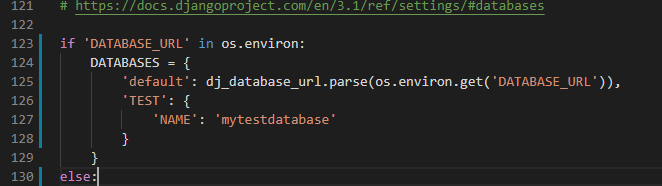
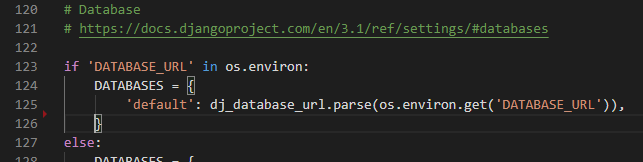
Updated review submit button & Readme.md

diff --git a/products/templates/products/rate.html b/products/templates/products/rate.html
@@ -65,7 +65,7 @@
                             <label for="exampleFormControlTextarea1" class="form-label">Review</label>
                             {{ form.text }}
                         </div>
-                        <input class="btn btn-primary" type="submit" value="Submit">
+                        <input class="btn btn-black rounded" type="submit" value="Submit">
                     </form>
                 </div>
             </div>

diff --git a/bakers_cake/settings.py b/bakers_cake/settings.py
@@ -123,9 +123,6 @@ WSGI_APPLICATION = 'bakers_cake.wsgi.application'
 if 'DATABASE_URL' in os.environ:
     DATABASES = {
         'default': dj_database_url.parse(os.environ.get('DATABASE_URL')),
-        'TEST': {
-            'NAME': 'mytestdatabase'
-        }
     }
 else:
     DATABASES = {
@@ -139,20 +136,19 @@ else:
 # Password validation
 # https://docs.djangoproject.com/en/3.1/ref/settings/#auth-password-validators
 
-val = 'django.contrib.auth.password_validation'
 
 AUTH_PASSWORD_VALIDATORS = [
     {
-        'NAME': 'val.UserAttributeSimilarityValidator',
+        'NAME': 'django.contrib.auth.password_validation.UserAttributeSimilarityValidator',
     },
     {
-        'NAME': 'val.MinimumLengthValidator',
+        'NAME': 'django.contrib.auth.password_validation.MinimumLengthValidator',
     },
     {
-        'NAME': 'val.CommonPasswordValidator',
+        'NAME': 'django.contrib.auth.password_validation.CommonPasswordValidator',
     },
     {
-        'NAME': 'val.NumericPasswordValidator',
+        'NAME': 'django.contrib.auth.password_validation.NumericPasswordValidator',
     },
 ]
 

diff --git a/checkout/migrations/0005_auto_20210126_2203.py b/checkout/migrations/0005_auto_20210126_2203.py
@@ -1,0 +1,18 @@
+# Generated by Django 3.1.4 on 2021-01-26 22:03
+
+from django.db import migrations, models
+
+
+class Migration(migrations.Migration):
+
+    dependencies = [
+        ('checkout', '0004_order_user_profile'),
+    ]
+
+    operations = [
+        migrations.AlterField(
+            model_name='order',
+            name='postcode',
+            field=models.CharField(max_length=20, null=True),
+        ),
+    ]

diff --git a/products/widgets.py b/products/widgets.py
@@ -8,4 +8,4 @@ class CustomClearableFileInput(ClearableFileInput):
     clear_checkbox_label = _('Remove')
     initial_text = _('Current Image')
     input_text = _('')
-    template_name = 'products/custom/custom_clearable_file_input.html'
+    template_name = 'products/customtemplates/custom_clearable_file_input.html'

diff --git a/static/readme_docs/test.md/test.md b/static/readme_docs/test.md/test.md
@@ -3,3 +3,286 @@ For testing card payments please use the following:
 * UK: 4000 0082 6000 0000 04/24 242 (same postcode as form)
 
 for further information about payment cards please refer [here](https://stripe.com/docs/testing#international-cards)
+
+# Bakers Cake Testing
+
+All code used for Bakers Cake was extensively tested through manual process during every stage of development to ensure that it works as intended and any bugs found were fixed. The responsive design of the website was tested on various devices and browsers.
+
+## Table of Contents
+
+1. [**Code Validation**](#code-validation)
+
+2. [**Testing Against User Stories**](#testing-against-user-stories)
+
+3. [**Manual Testing**](#manual-testing)
+    - [**Responsive Design Testing**](#responsive-design-testing)
+        - [**Overview**](#overview)
+            - [**Navbar**](#navbar)
+            - [**Landing Page**](#landing-page)
+            - [**Search Results Page**](#search-results-page)
+            - [**Accounts Page**](#account-page)
+            - [**Basket page**](#basket-page)
+            - [**Checkout page**](#checkout-page)
+	        - [**Cakes page**](#cakes-page)
+	        - [**Single Cake page**](#single-cake-page)
+            - [**Contact Page**](#manage-recipe-page)
+            - [**404 Page**](#404-page)
+            - [**500 Page**](#500-page)
+
+    - [**pylint**](#pylint)
+    - [**Lighthouse Chrome developer tools**](#Lighthouse-Chrome-developer-tools)
+
+## Code Validation
+
+All code written has been thoroughly validated and passed through the following online validators:
+
+- HTML - All code was run through the [W3C HTML Validator](https://validator.w3.org/) to ensure it was valid code and no errors were made. I used the [Web Developer](https://chrispederick.com/work/web-developer/) plugin for the chrome browser to pass the local HTML into the W3C validator on every page of the website.
+
+- CSS - All styling was run through the [W3C CSS Validator](https://jigsaw.w3.org/css-validator/) to ensure it was valid and no errors were made.
+
+- jQuery - All my script was run through the [JSHint](https://jshint.com/) validator and no errors were found.
+
+- Python - All code was run through [PEP8](http://pep8online.com/).All code is PEP8 compliant.
+
+## Testing Against User Stories
+
+The below goes through of the user stores listed in the UX section of the [README.md](https://github.com/Dhracko/bakers_cake/blob/master/README.md).
+
+**As a user, I want:**
+
+1. 
+## Manual Testing
+
+I have detailed the manual testing undertaken during the development stage to ensure that the design is responsive and free of bugs.
+
+### Responsive Design Testing
+
+During every stage of development, I used a variety of tools to test out the layout of the website to ensure that it remained responsive at various screen sizes,
+ that the website retained the correct look, and all elements were displayed correctly and readable by the user.
+
+For testing the various media screen sizes, I used the built-in options that were available through the Chrome browser as well
+ using the [Responsive Test Tool Website](http://responsivetesttool.com/) as this gave access to a wider range of screen and device sizes.
+
+All tests were performed on the following browsers:
+
+- Google Chrome
+- Opera
+- Microsoft Edge
+- Mozilla Firefox
+- Safari
+
+All testing was performed at the following screen sizes:
+
+- Mobile Phones/ Small Devices (Portrait and Landscape) - All available through Chrome and Firefox Dev Tools.
+  - Additional Emulated Devices - Nexus 7, iPod Touch, Galaxy Note 3, Nexus 6P, LG G5
+  - Physical Devices - iPhone X and Samsung S9
+
+- Tablet Devices (Portrait and Landscape) - All available through Chrome and Firefox Dev Tools.
+  - Additional Emulated Devices - Samsung Galaxy Tab 2, iPad Pro 9.7, iPad Pro 9.7, iPad mini, HTC Nexus 9
+  - Physical Devices - iPad Air
+
+- Laptop/Desktop Devices (Portrait and Landscape).
+  - Emulated Screen Sizes - 1024 x 600, 1280 x 800, 1366 x 768, 1440 x 900, 1680 x 1050, 1920 x 1080
+  - Physical Devices - 18" Laptop, 22" Monitor, 14" laptop
+
+
+#### Overview
+
+This website was intended to be responsive across all media devices such as mobile phones,
+ tablets and desktops/laptops as the primary purpose of the website is to enable users to view and create recipes that others can see and users
+  will want to be able to take their chosen media device with them to their kitchen.
+
+To ensure the website and content remains responsive, I tested the layout at every stage of development on the various screen sizes and devices
+ listed in the previous section. If the content did not display as intended, I corrected the styling of the elements and added Media Queries
+  so that the design will adjust to device being viewed.
+
+The overall site was designed using the Bootstrap Framework v4.4.1 to make use of their flex layout. During the initial setup I used the version 5.06 Beta from Bootstrap but I found it
+still a bit buggy so I reverted to a more stable version v4.4.1. In addition to this I used relative measurements in my styling where possible,
+ rather than absolute measurements to allow the elements to adapt to screen size changes before a new media query would need to be introduced.
+
+##### Navbar
+
+- I tested to ensure that the Navbar is correctly displayed at all times and the buttons within it responded and acted as intended. Reducing the sizes of icons and font where needed
+according to the screen size using Media Queries.
+
+##### Landing Page
+
+- I tested that all writing, buttons and images on the landing page remained readable by the user and it adapted accordingly to the device it was being viewed on.
+
+- Where the responsiveness of the website began to degrade, I created a media query to deal with any issues.
+
+- In order to ensure that the site retained cross-browser responsiveness, I used the online CSS [Autoprefixer](https://autoprefixer.github.io/).
+
+- Bakers Cake logo. When the logo is clicked I made sure it takes you to the landing page.
+
+- At the search bar I type the word cake and took me to the 15 cakes results out of the 19 , showing that the 4 remaining didn't have a work "cake" in either
+their name or description.
+
+- On click on "My Account" icon a scroll down list showing the following:
+    - "Register" or "Login" for unregistered
+    - "Product Management" , "My Profile: (username)" or "Logout"
+
+- On click on the basket icon I made sure it takes you to the basket template.
+
+- I tested the "HOME" that takes the user back to the home page.
+
+- I tested the "CAKES" link that open a dropdown with "By Price" , "By Rating", "By Category" and "All Cakes"
+
+- I tested the "CATEGORIES" link that open a dropdown with "Sponge" , "Fruit", "Cheesecake" and "Cupcakes”.
+
+- I tested the "OCCASIONS" link that open a dropdown with "Wedding" , "Birthday", "Anniversary" and "Special Occasions”.
+
+- I tested the "CONTACT US" link that takes you to the Contact Us template.
+
+- I tested the Join our newsletter by introducing an email in the form field and clicking "Subscribe" and a Model pop-down verifying the submission. Also checked on the 
+admin panel the email is being Register in the database.
+
+- No issues were discovered.
+
+##### Search Results Page
+
+- I tested to ensure that the results shown in the search results page are displayed correctly to the user and that they kept a consistent flow between different media devices.
+
+- I tested on empty text in the search bar to make sure a Modal show with an error message and takes you to all the cakes page.
+
+- No issues were discovered.
+
+##### Accounts Page
+
+- I tested to ensure that the account page are displayed correctly to the user and that they kept a consistent flow between different media devices.
+
+- I tested registering a test user using a temporal email and clicking "Sign Up". Making sure an email was sent to the temporal email and by clicking on the link within to verify the 
+account creation.
+
+- I tested clicking in the login link to ensure that the login page are displayed correctly to the user and by clicking the "Home" button takes you to the main page and by clicking on 
+Sign in button a Modal shows up confirming the signed in.
+
+- No issues were discovered.
+
+##### Basket page
+
+- I tested to ensure that the form content displayed and adjusted appropriately to the user and the media screen size they were viewing the page on.
+
+- I tested to ensure that all validation messages always remained clear to the user.
+
+- I test to ensure the buttons used within the page were clear to the user and that it conveyed its purpose.
+
+- I tested the template with an empty basket and the button "< Keep Shopping" takes you to all cakes template.
+
+- I tested the template with an item in the basket to make sure all the button acted as intended.
+
+- No issues were discovered.
+
+##### Checkout page
+
+- I tested to ensure that the form content displayed and adjusted appropriately to the user and the media screen size they were viewing the page on.
+
+- I tested to ensure that all validation messages always remained clear to the user.
+
+- I test to ensure the buttons used within the page were clear to the user and that it conveyed its purpose.
+
+- I tested to ensure that the modal used for the success  and for the unsuccess of the payment displayed correctly to the user and appeared correctly on all media screen sizes.
+
+- I tested to ensure the successful payment template were clear to the user and that it conveyed its purpose.
+
+- Defensive Testing
+    *  A user is not able to introduce characters in the telephone form.
+
+- No issues were discovered.
+
+
+##### Cakes page
+
+- I tested to ensure that the form content displayed and adjusted appropriately to the user and the media screen size they were viewing the page on.
+
+- I tested to ensure the cards used within the page were clear to the user and that it conveyed its purpose and that by clicking on any a new page will open showing the single cake
+clicked.
+
+- I test to ensure the buttons used within the page were clear to the user and that it conveyed its purpose.
+
+- No issues were discovered.
+
+##### Single Cake page
+- I tested to ensure that the form content displayed and adjusted appropriately to the user and the media screen size they were viewing the page on.
+
+- I test to ensure the buttons used within the page were clear to the user and that it conveyed its purpose.
+
+- Defensive Testing
+    *  A user is not able to reduce the quantity selected to below 0, the minus button is greyed.
+out. If a user manually types 0 in the box and tries to add 0 to their bag, they will.
+view an error stating that the quantity must be equal or greater than 1.
+    
+    * A user is not able to increase the quantity selected to over 99, the plus button is greyed.
+out. If a user manually types a number greater than 99 in the box and tries to add it
+to their bag, they will view an error stating that the quantity must be less than or
+equal to 99.
+
+- No issues were discovered.
+
+##### Review Page
+- I tested to ensure that the form content displayed and adjusted appropriately to the user and the media screen size they were viewing the page on.
+
+- I tested to ensure the buttons used within the page were clear to the user and that it conveyed its purpose.
+
+- I tested upon submition of the form review, it works as intended.
+
+- Defensive Testing: I tested that only registered users can post reviews and upon trying being logout it will take you to the login page.
+
+- No issues were discovered.
+
+##### Contact Page
+
+- I tested to ensure that the form content displayed and adjusted appropriately to the user and the media screen size they were viewing the page on.
+
+- I tested to ensure the buttons used within the page were clear to the user and that it conveyed its purpose.
+
+- I tested upon submit of the form "Send message", it works as intended.
+
+
+##### 404 Page
+
+- I tested to ensure that the text content and image displayed and adjusted appropriately to the user and the media screen size they were viewing the page on.
+
+##### 500 Page
+
+- I was not able to test this page itself but was able test the template by using the template as a 404 page instead.
+
+
+**Search Bar Functionality**
+
+  - I manually tested that the search bar functionality works as intended.
+
+    - I input different values where I knew the search will produce positive results.
+
+    - I input values where I knew there will be no results and it will display a ``Sorry, no results were found`` message.
+
+- No issues were discovered with the functionality of this view
+
+
+#### Product Management Page Template
+
+I verified that the Product Management page displays as expected and that all buttons work as intended.
+
+##### Breakdown of Jinja Functionality in Manage Recipe Page Template
+
+- I verified that the current recipe information was correctly populated within the form, so the user was able to see their previous information and update it where required.
+
+- I verified that all the validation elements within the form worked as expected.
+
+
+
+#### 404 Page Template
+
+I verified that the custom 404 page correctly generates and is displayed to the user when they access a view that does not exist. I test by trying to navigate to /products/20/
+
+
+##### pylint
+
+I use this tool at the CLI to verify and make the code compliant.
+
+##### Lighthouse Chrome developer tools
+
+I use this function to generate a report on the test on the different pages.
+
+
+

diff --git a/README.md b/README.md
@@ -249,6 +249,7 @@ found under the items on the Shop page, or on the individual product page, and t
 
 ### Manual Testing
 
+I have extensibly tested the site manually, making sure all the links and features works.
 You can view the testing done in the [test.md](https://github.com/Dhracko/bakers_cake/blob/master/static/readme_docs/test.md)
 
 ### Automated Testing
@@ -263,7 +264,12 @@ The code are included:
 
 ### Issues and resolutions <a name="Issues"></a>
  
---- During the automated testing, i realised I set the postcode input value to "blank=True" but it's necesary for the card payment, to I changed to "False".
+* During the automated testing, i realised I set the postcode input value to "blank=True" but it's necesary for the card payment, to I changed to "False".
+* In order to make the automated testing works I had to temporally remove the remote database
+
+![DATABASE](https://github.com/Dhracko/bakers_cake/blob/master/static/readme_docs/database.png)
+
+--- 
 
 ## 10. Deployment <a name="Deployment"></a>
 Initial Deployment:
